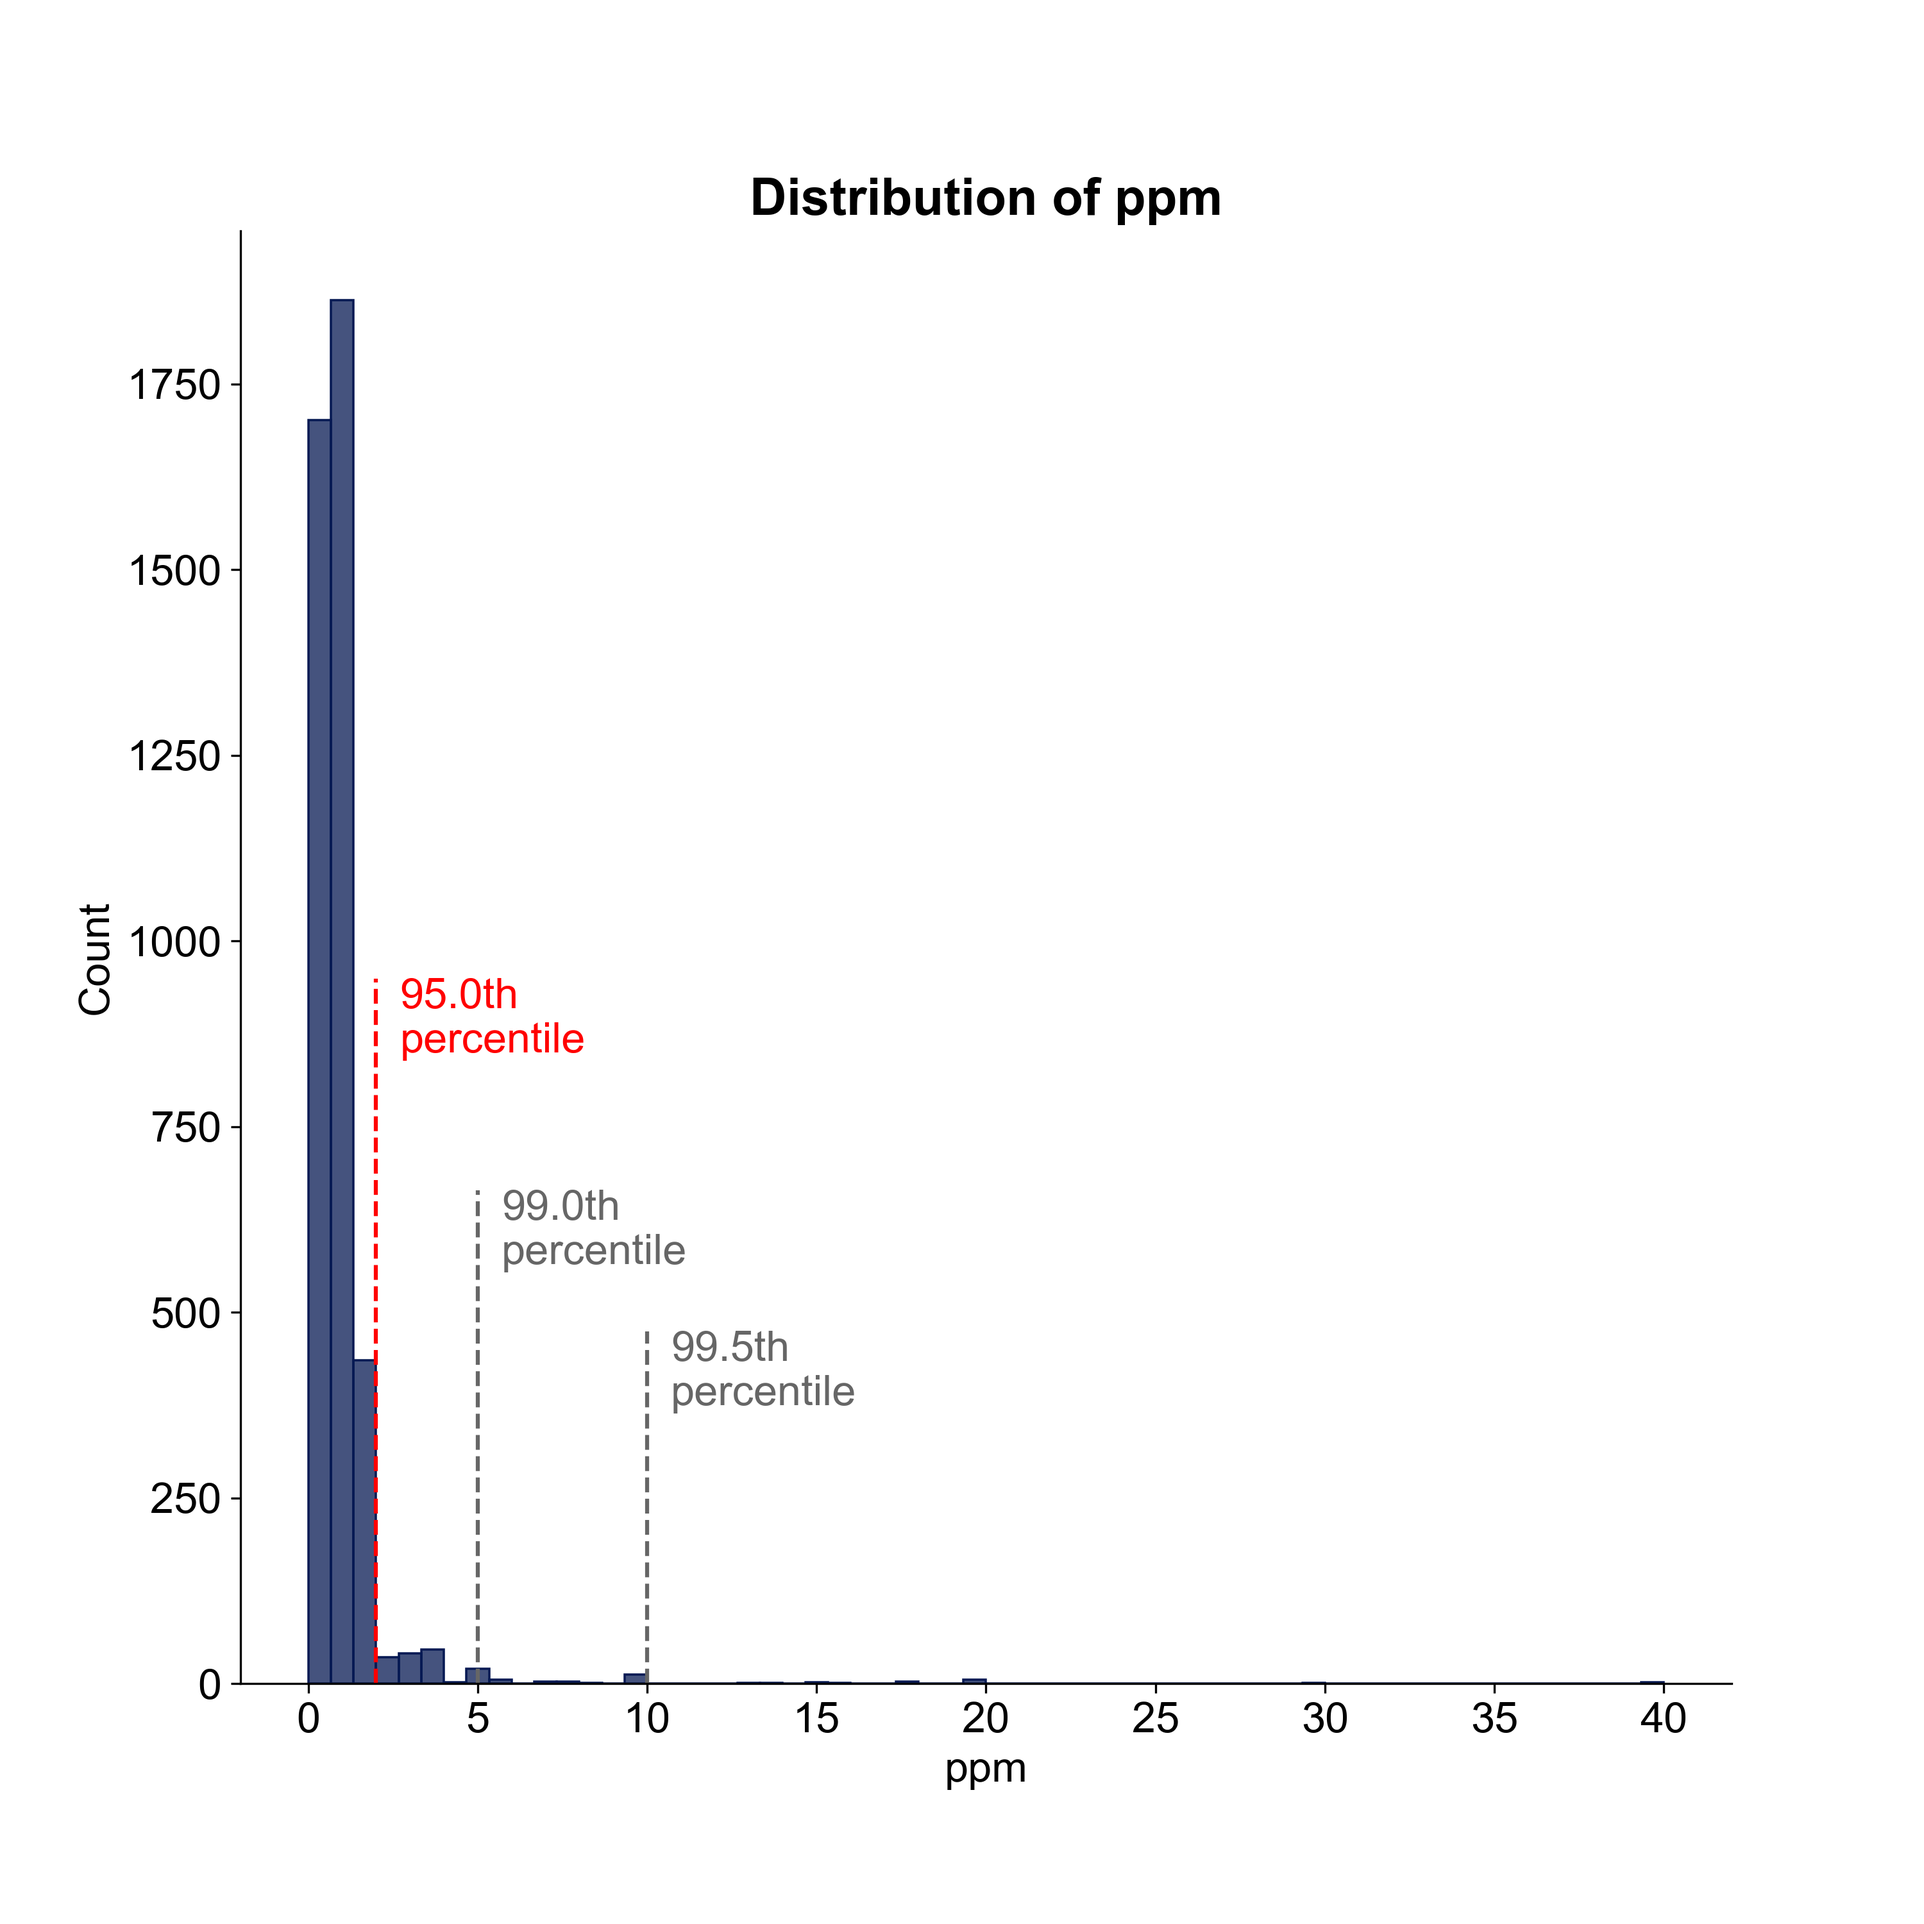
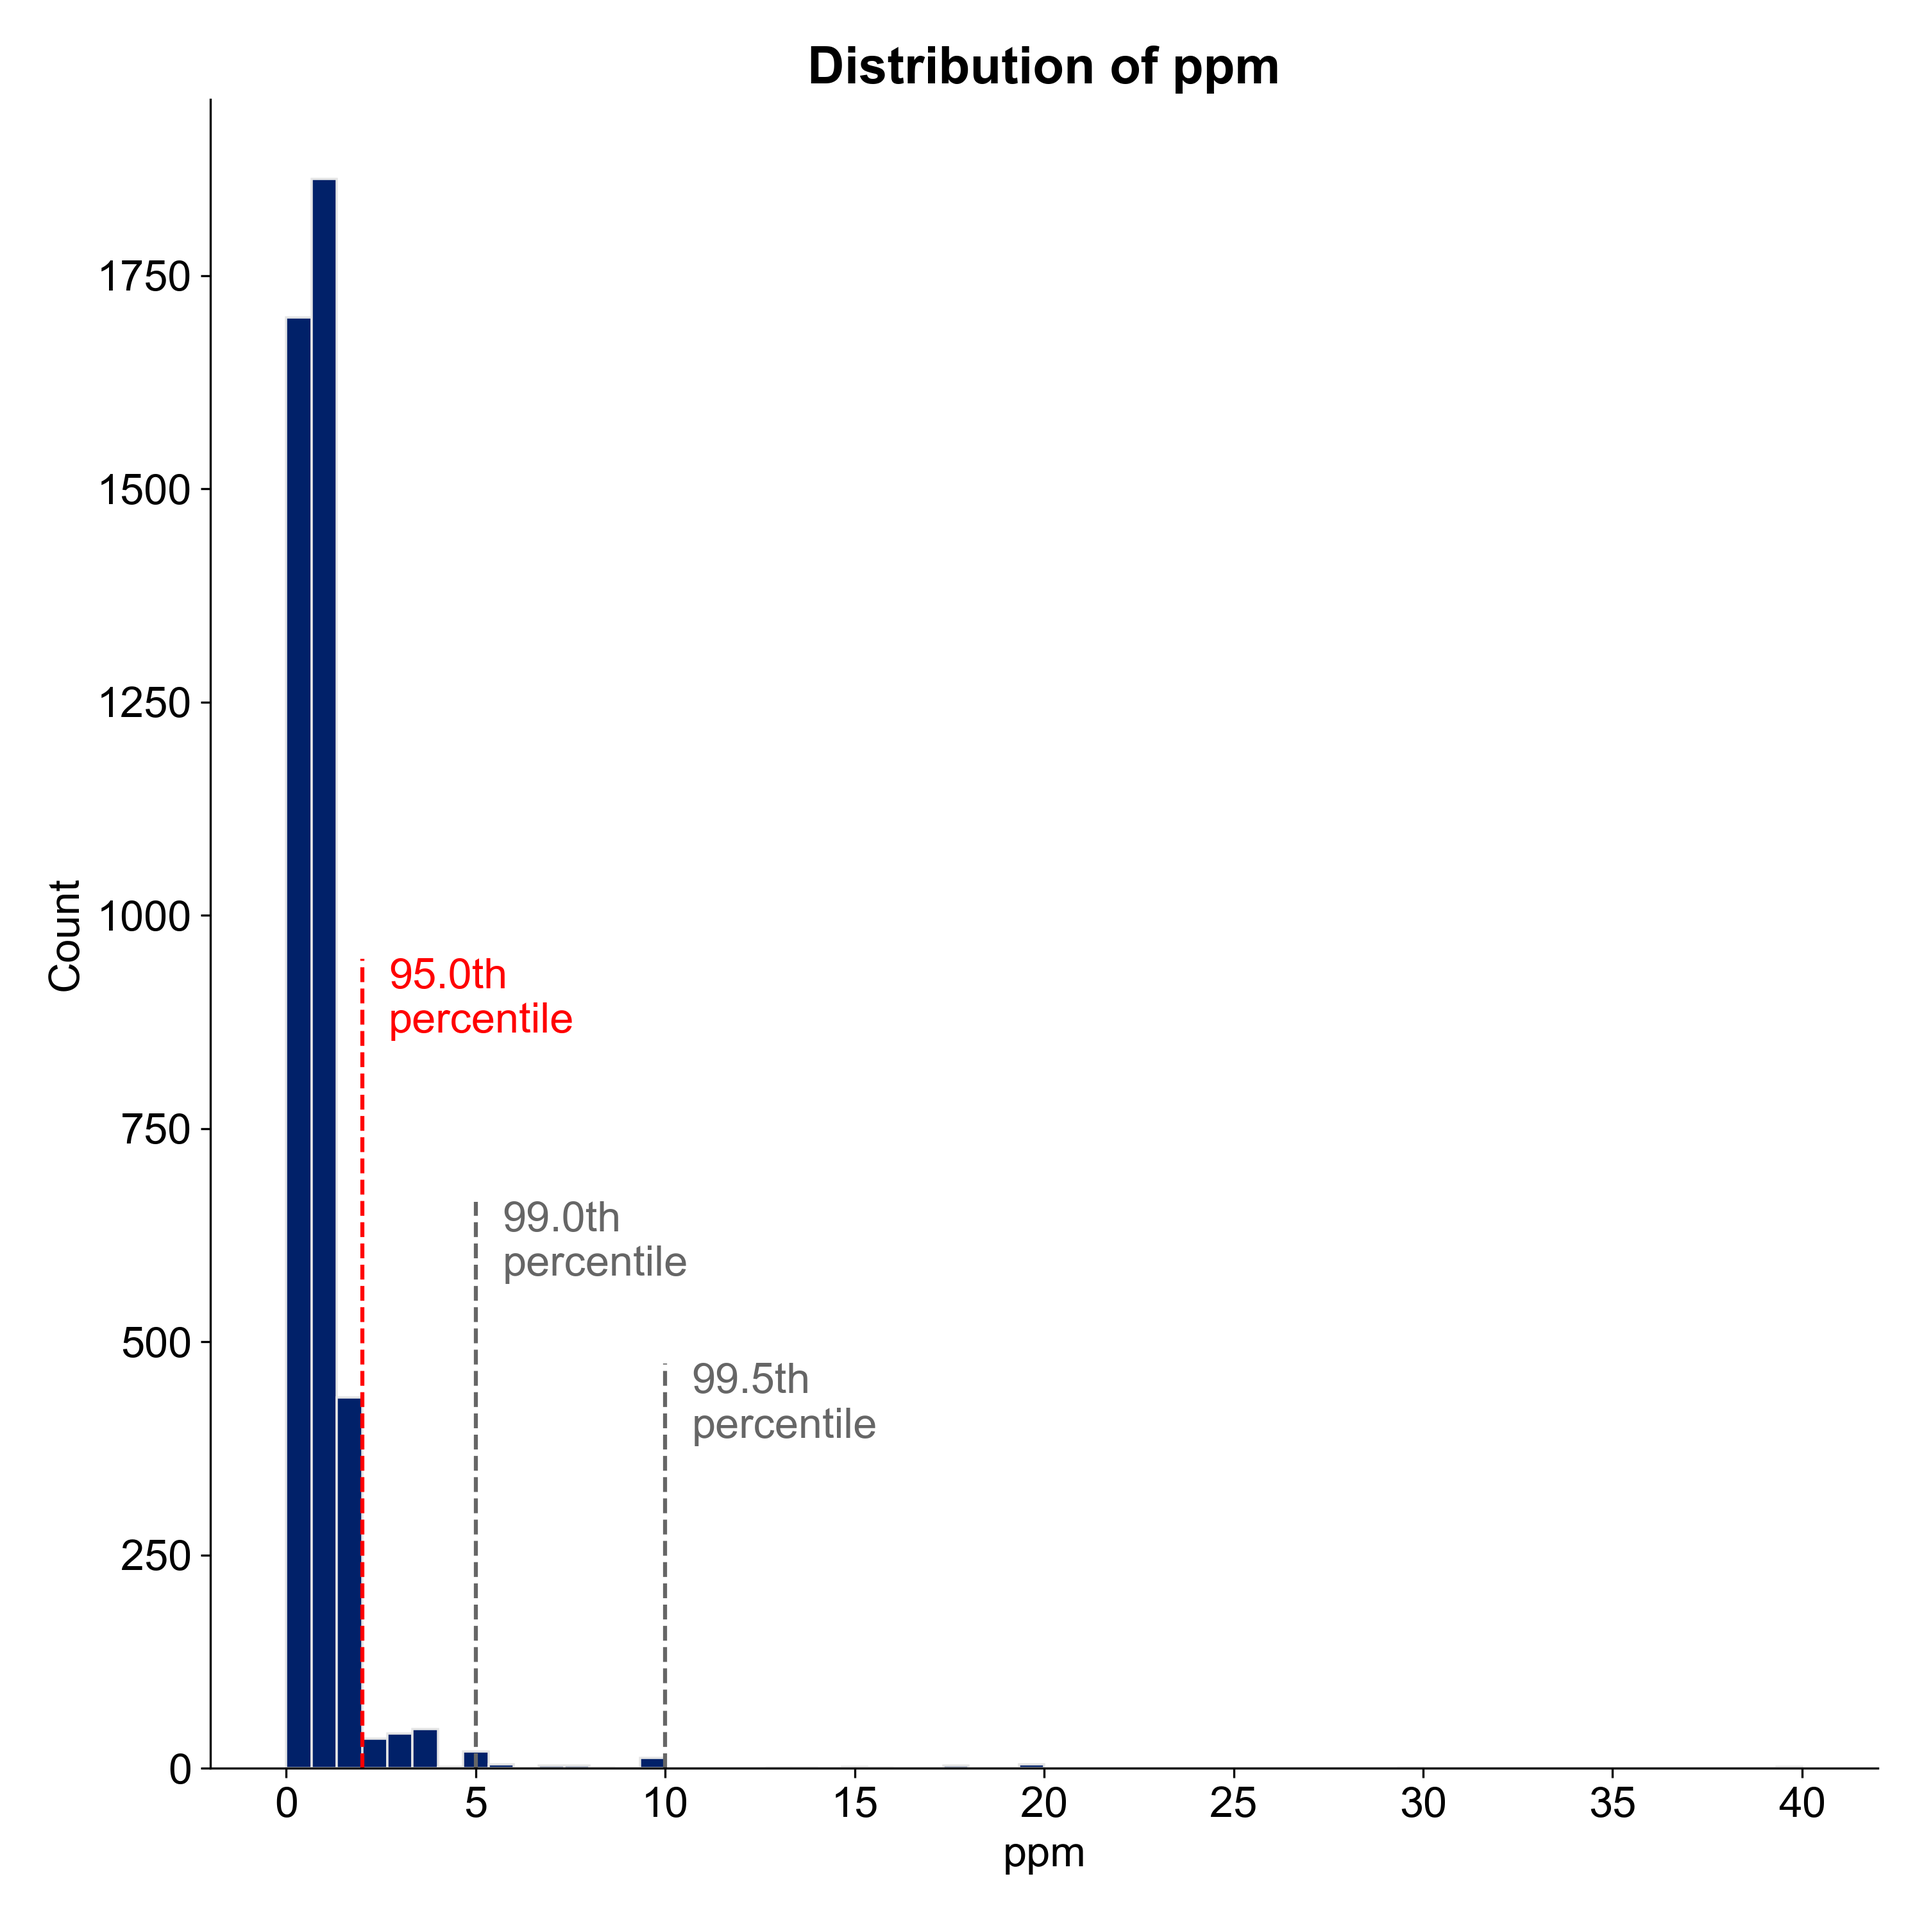
color fix

diff --git a/Presentation/part1_plots.py b/Presentation/part1_plots.py
@@ -12,10 +12,10 @@ matplotlib_inline.backend_inline.set_matplotlib_formats("svg")
 plt.rcParams["font.family"] = "Arial"
 plt.rcParams["font.size"] = 16
 
-LIGHTBLUE = "#03529B"
+LIGHTBLUE = "#00539B"
 # MIDDLE = "#48A9A6"
 MIDDLE = "#053186"
-DARKBLUE = "#061953"
+DARKBLUE = "#012169"
 
 COL_DTYPES = {
     "ppm": "float",
@@ -59,7 +59,11 @@ raw_data = pd.read_parquet("../Data/part1_raw_data.parquet")
 #%%
 #################### Univariate ppm ####################
 fig, ax = plt.subplots(figsize=(10, 10))
-sns.histplot(raw_data["ppm"], bins=60, color=DARKBLUE, ec=DARKBLUE)
+sns.histplot(raw_data["ppm"], bins=60)
+
+for patch in ax.patches:
+    patch.set_color(DARKBLUE)
+    patch.set_edgecolor("0.9")
 
 # pct_line_ymaxs = [1750, 1500, 1000]
 pct_to_plot = [0.95, 0.99, 0.995]
@@ -79,7 +83,7 @@ for pct, ymax in zip(pct_to_plot, pct_line_ymaxs):
 # ax.text(x=20, y=500, s="Removing outliers > 95th percentile\ndeletes XXX data points.", bbox=dict(boxstyle='round', facecolor='white', alpha=0.5))
 ax.set_title("Distribution of ppm", weight="bold")
 sns.despine()
-
+plt.tight_layout()
 plt.savefig("Images/part1_univariate_ppm.png", facecolor="white", dpi=300)
 
 #%%
@@ -272,7 +276,7 @@ state_abbrevs
 
 import pandas as pd
 
-state_df = df_dotplot.copy()
+state_df = df_dotplot_state.copy()
 
 state_df = state_df.assign(state=state_df.state.replace(state_abbrevs)).rename(
     {"pointestimate": "Intercept"}, axis=1
